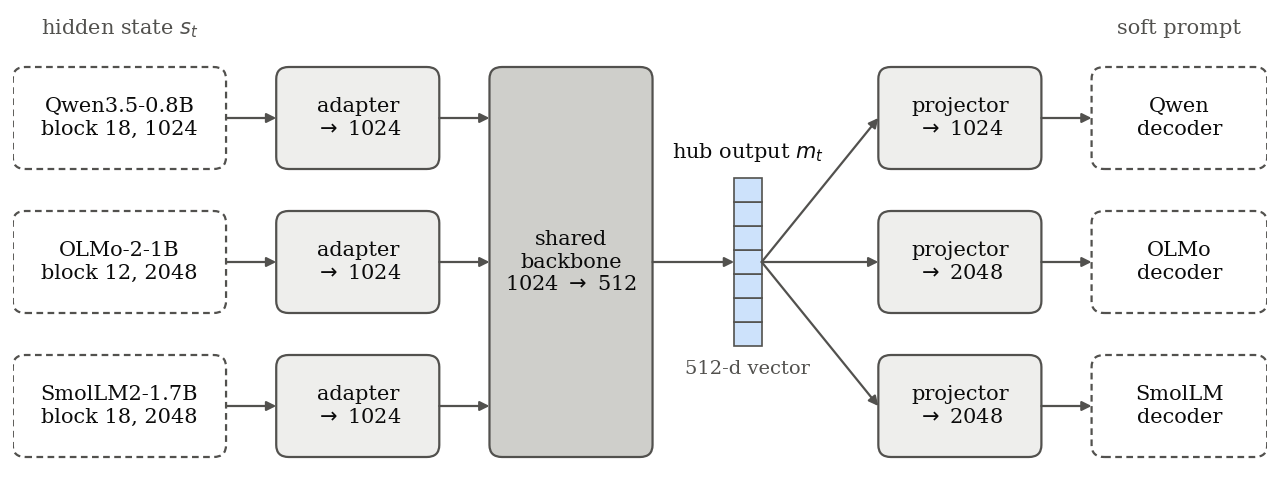
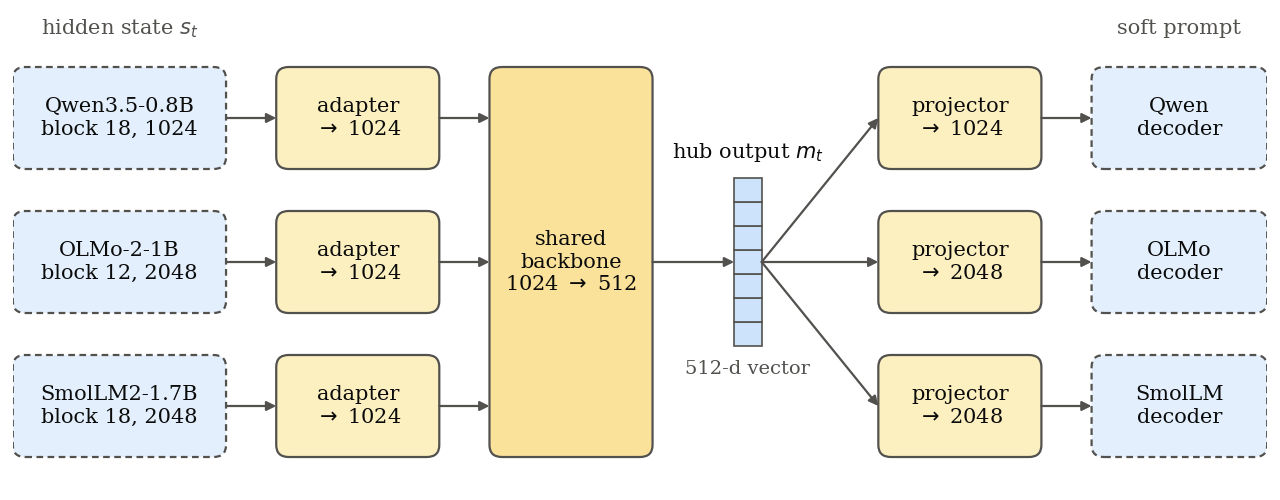
figures 1.1, 3.1, 4.1: one code (red target, blue public, yellow trained; solid trained, dashed frozen); captions updated

diff --git a/figures/scripts/make_figures.py b/figures/scripts/make_figures.py
@@ -67,7 +67,7 @@ def attack_map():
     ax.set_ylim(0, 44)
     ax.axis("off")
     top, bottom, h = 32, 9, 8.5
-    light = "#eeeeec"
+    red_box, blue_box, yellow_box, red, blue, yellow = "#fbe4e1", "#e3effc", "#fdf0c0", "#f6c9c4", "#cde2fb", "#fbe08a"
 
     def box(x, y, w, text, fill, dashed=False):
         ax.add_patch(FancyBboxPatch((x, y - h / 2), w, h, boxstyle="round,pad=0,rounding_size=1",
@@ -85,32 +85,32 @@ def attack_map():
         return y - cells * ch / 2, y + cells * ch / 2
 
     # Top lane: the target model, the one trained module, and the frozen read-out of the hub.
-    box(0, top, 17, "Pythia-1B\nblock 12, 2048", "#ffffff", dashed=True)
-    box(22, top, 15, "affine map\n2048 $\\to$ 512", light)
+    box(0, top, 17, "Pythia-1B\nblock 12, 2048", red_box, dashed=True)
+    box(22, top, 15, "affine map\n2048 $\\to$ 512", yellow_box)
     arrow(17, top, 22, top)
     vx = 46
-    lo_t, hi_t = vector(vx, top, "#fbd9cc")
+    lo_t, hi_t = vector(vx, top, yellow)
     arrow(37, top, vx, top)
     ax.text(vx + 1.1, hi_t + 1.0, "mapped state $\\hat{m}_t$", ha="center", va="bottom", fontsize=7.5, color=INK)
-    box(62, top, 17, "hub projectors\nand decoders", "#ffffff", dashed=True)
+    box(62, top, 17, "hub projectors\nand decoders", blue_box, dashed=True)
     arrow(vx + 2.2, top, 62, top)
     arrow(79, top, 84, top)
     ax.text(92, top, "reconstructed\nprompt", ha="center", va="center", fontsize=7.5, color=INK, linespacing=1.25)
     # Bottom lane: the hub, frozen, run by the adversary on OLMo.
-    box(0, bottom, 17, "OLMo-2-1B\nblock 12, 2048", "#ffffff", dashed=True)
-    box(22, bottom, 15, "hub adapter\nand backbone", "#ffffff", dashed=True)
+    box(0, bottom, 17, "OLMo-2-1B\nblock 12, 2048", blue_box, dashed=True)
+    box(22, bottom, 15, "hub adapter\nand backbone", blue_box, dashed=True)
     arrow(17, bottom, 22, bottom)
-    lo_b, hi_b = vector(vx, bottom, "#cde2fb")
+    lo_b, hi_b = vector(vx, bottom, blue)
     arrow(37, bottom, vx, bottom)
     ax.text(vx + 1.1, lo_b - 1.0, "hub output $m_t$", ha="center", va="top", fontsize=7.5, color=INK)
     # The two terms that train the map, between the mapped states and the hub outputs.
-    arrow(vx + 0.4, hi_b, vx + 0.4, lo_t, color=SUPERVISED, style="<|-|>")
-    arrow(vx + 1.8, hi_b, vx + 1.8, lo_t, color=HYBRID, style="<|-|>", ls=(0, (3, 2)))
+    arrow(vx + 0.4, hi_b + 0.6, vx + 0.4, lo_t - 0.6, color=INK2, style="-")
+    arrow(vx + 1.8, hi_b + 0.6, vx + 1.8, lo_t - 0.6, color=INK2, style="-", ls=(0, (3, 2)))
     mid = (hi_b + lo_t) / 2
     ax.text(vx - 1.2, mid, "supervised term\nleaked rows, same text", ha="right", va="center", fontsize=7,
-            color=SUPERVISED, linespacing=1.25)
+            color=INK2, linespacing=1.25)
     ax.text(vx + 3.4, mid, "matching term\nunpaired pools, different prompts", ha="left", va="center", fontsize=7,
-            color=HYBRID, linespacing=1.25)
+            color=INK2, linespacing=1.25)
     ax.text(8.5, 41, "hidden state $s_t$", ha="center", fontsize=7.5, color=INK2)
     fig.subplots_adjust(0.01, 0.02, 0.99, 0.98)
     save(fig, "ch4/attack_map")
@@ -148,7 +148,7 @@ def overview():
     ax.text(61, 66, "server, the adversary", ha="center", va="center", fontsize=7.5, color=INK2, style="italic")
     vs, vx = 27, 52
     ax.text(3.2, top, "public\nprompt", ha="center", va="center", fontsize=7.5, color=INK, linespacing=1.25)
-    box(35, top, 11, "hub\n(step 1)", blue_box)
+    box(35, top, 11, "hub\n(step 1)", yellow_box)
     arrow(6.6, top, 35, top)
     lo_t, hi_t = vector(vx, top, blue)
     arrow(46, top, vx, top)

diff --git a/chapters/ch1_introduction/ch1.tex b/chapters/ch1_introduction/ch1.tex
@@ -48,9 +48,9 @@ Figure~\ref{fig:intro:approach} shows both steps.
 \centering
 \includegraphics[width=\textwidth]{ch1/approach_overview}
 \caption{A map trained on a small leak and on distribution matching sends the hidden states that the server receives into a pretrained translation hub, whose decoders reconstruct the private prompt.
-Red marks what the adversary does not know, the target model and its hidden states; blue marks the pretrained hub, its outputs for public prompts, and its decoders; yellow marks the map and the mapped states, fitted to match red to blue.
-The two vertical lines are the comparisons that train the map: on a small leak, where the pairing is known, and by distribution matching, where it is not.
-Solid boxes are trained, the hub in step 1 and the map in step 2; dashed boxes are frozen language models.}
+Red marks the target model and its hidden states, blue marks the public side, that is, the hub outputs for public prompts and the frozen models that decode them, and yellow marks what is trained: the hub in step 1 and the map in step 2, with the mapped states that the map produces.
+Solid boxes are trained and dashed boxes are frozen.
+The two vertical lines are the comparisons that train the map: on a small leak, where the pairing is known, and by distribution matching, where it is not.}
 \label{fig:intro:approach}
 \end{figure}
 

diff --git a/figures/scripts/make_hub_figures.py b/figures/scripts/make_hub_figures.py
@@ -90,9 +90,9 @@ def architecture():
     sources = [("Qwen3.5-0.8B\nblock 18, 1024", "$\\to$ 1024"), ("OLMo-2-1B\nblock 12, 2048", "$\\to$ 2048"),
                ("SmolLM2-1.7B\nblock 18, 2048", "$\\to$ 2048")]
     decoders = ["Qwen\ndecoder", "OLMo\ndecoder", "SmolLM\ndecoder"]
-    light, dark = "#eeeeec", "#cfcfcb"
+    light, dark, public = "#fdf0c0", "#fae29a", "#e3effc"  # trained modules yellow, frozen public models blue
     for y, (src, _) in zip(rows, sources):
-        box(0, y, 17, src, SURFACE, dashed=True)
+        box(0, y, 17, src, public, dashed=True)
         box(21, y, 13, "adapter\n$\\to$ 1024", light)
         arrow(17, y, 21, y)
         arrow(34, y, 38, y)
@@ -109,7 +109,7 @@ def architecture():
     arrow(51, 19, bar_x, 19)
     for y, (_, width), dec in zip(rows, sources, decoders):
         box(69, y, 13, f"projector\n{width}", light)
-        box(86, y, 14, dec, SURFACE, dashed=True)
+        box(86, y, 14, dec, public, dashed=True)
         arrow(bar_x + bar_w, 19, 69, y)
         arrow(82, y, 86, y)
     ax.text(8.5, 38, "hidden state $s_t$", ha="center", fontsize=7.5, color=INK2)

diff --git a/chapters/ch4_weak_supervised_attack/s2_method.tex b/chapters/ch4_weak_supervised_attack/s2_method.tex
@@ -16,7 +16,7 @@ Like the hub, the map acts on one hidden state at a time (Section~\ref{sec:hub:d
 \caption{The attack trains one affine map between the target model and the frozen hub.
 The map sends each hidden state of the target model to a mapped state in the hub, and the frozen projectors and decoders of the hub reconstruct the prompt from the mapped states.
 The supervised term compares a mapped state with the hub output of the same leaked row; the matching term aligns mapped states with hub outputs of different prompts, drawn from the two unpaired pools.
-The shaded box is the only trained module, and dashed boxes are frozen.}
+The yellow solid box is the only trained module; dashed boxes are frozen, red for the target model and blue for the public model and the hub.}
 \label{fig:attack:map}
 \end{figure}
 

diff --git a/chapters/ch3_translation_hub/s1_design.tex b/chapters/ch3_translation_hub/s1_design.tex
@@ -7,7 +7,7 @@ The hub connects $k$ models through one shared space, with one source adapter an
 \includegraphics[width=\textwidth]{ch3/hub_architecture}
 \caption{The translation hub maps each model's hidden states into one shared space, and every frozen model decodes from it.
 Model-specific adapters and a shared backbone produce the hub output; model-specific projectors map it into the input space of each frozen decoder.
-Shaded boxes are trainable modules, dashed boxes are frozen models, and the column of cells is the hub output, a vector with no parameters of its own.}
+Yellow solid boxes are trained modules, blue dashed boxes are frozen public models, and the column of cells is the hub output, a vector with no parameters of its own.}
 \label{fig:hub:arch}
 \end{figure}
 
